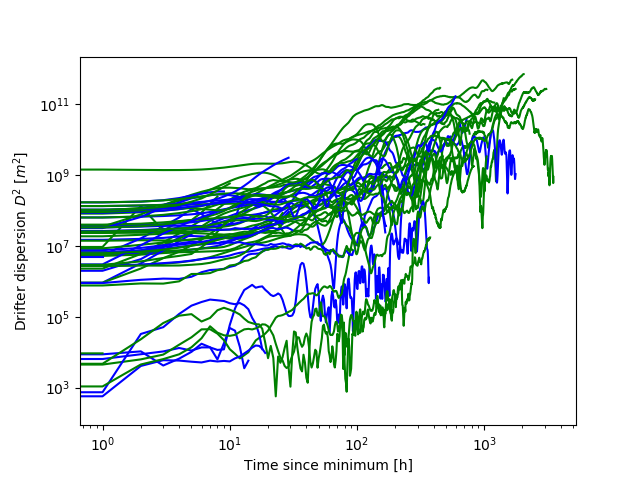
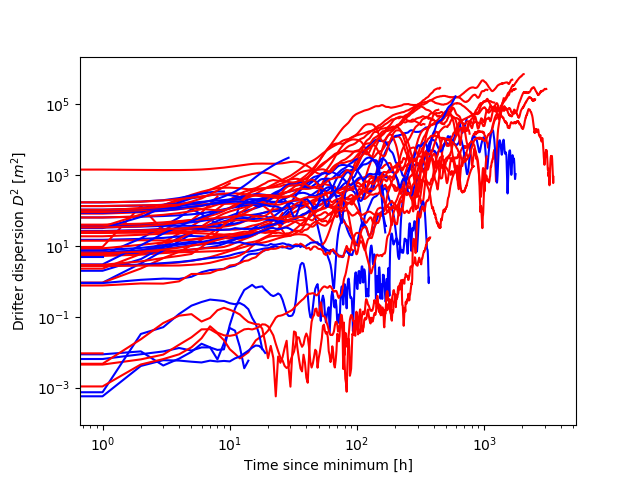
D2

diff --git a/plottraj.py b/plottraj.py
@@ -19,56 +19,56 @@ f,tf = np.genfromtxt('Data/ForwardDistances/FDPair{0}.csv'.format(nPair),delimit
 pairs = np.genfromtxt('Data/UnPair.txt', delimiter=',')
 nd = np.genfromtxt('Data/MedSeaIDslonlat.txt', delimiter=',')
 #%%
-ID1 = []
-for i in range(len(nd[0])):
-    if nd[0,i] == pairs[nPair,0]:
-        ID1 +=[nd[1,i],nd[2,i],nd[3,i]]
-ID1 = np.array(ID1)
-ID1 = np.reshape(ID1,(int(len(ID1)/3),3))
-
-ID2 = []
-for i in range(len(nd[0])):
-    if nd[0,i] == pairs[nPair,1]:
-        ID2 +=[nd[1,i],nd[2,i],nd[3,i]]
-ID2 = np.array(ID2)
-ID2 = np.reshape(ID2,(int(len(ID2)/3),3))
-
-f1 = plt.figure(1,figsize=(9,4))
-ax1 = plt.axes(projection=ccrs.PlateCarree())
-ax1.add_feature(cfeature.NaturalEarthFeature('physical','land','50m',edgecolor='face',facecolor='k'))
-ax1.set_extent([-5,36,30,45],crs=ccrs.PlateCarree())
-p1 = ax1.scatter(ID1[:,1],ID1[:,0])
-p2 = ax1.scatter(ID2[:,1],ID2[:,0])
+#ID1 = []
+#for i in range(len(nd[0])):
+#    if nd[0,i] == pairs[nPair,0]:
+#        ID1 +=[nd[1,i],nd[2,i],nd[3,i]]
+#ID1 = np.array(ID1)
+#ID1 = np.reshape(ID1,(int(len(ID1)/3),3))
 #
-f2 = plt.figure(2,figsize=(9,4))
-ax2 = plt.axes()
-ax2.plot(t,d)
-
-f3 = plt.figure(3,figsize=(9,4))
-ax3 = plt.axes()
-ax3.plot(t)
-
-f4 = plt.figure(4,figsize=(9,4))
-ax4 = plt.axes()
-ax4.plot(b)
-
-f5 = plt.figure(5,figsize=(9,4))
-ax5 = plt.axes()
-ax5.plot(f)
+#ID2 = []
+#for i in range(len(nd[0])):
+#    if nd[0,i] == pairs[nPair,1]:
+#        ID2 +=[nd[1,i],nd[2,i],nd[3,i]]
+#ID2 = np.array(ID2)
+#ID2 = np.reshape(ID2,(int(len(ID2)/3),3))
+#
+#f1 = plt.figure(1,figsize=(9,4))
+#ax1 = plt.axes(projection=ccrs.PlateCarree())
+#ax1.add_feature(cfeature.NaturalEarthFeature('physical','land','50m',edgecolor='face',facecolor='k'))
+#ax1.set_extent([-5,36,30,45],crs=ccrs.PlateCarree())
+#p1 = ax1.scatter(ID1[:,1],ID1[:,0])
+#p2 = ax1.scatter(ID2[:,1],ID2[:,0])
+##
+#f2 = plt.figure(2,figsize=(9,4))
+#ax2 = plt.axes()
+#ax2.plot(t,d)
+#
+#f3 = plt.figure(3,figsize=(9,4))
+#ax3 = plt.axes()
+#ax3.plot(t)
+#
+#f4 = plt.figure(4,figsize=(9,4))
+#ax4 = plt.axes()
+#ax4.plot(b)
+#
+#f5 = plt.figure(5,figsize=(9,4))
+#ax5 = plt.axes()
+#ax5.plot(f)
 
 #%% backward and forward timeseries
 
-#b = []
-#f = []
-#f6 = plt.figure(6)
-#ax6 = plt.axes()
-#plt.ylabel('Drifter dispersion $D^2$ [$m^2$]')
-#plt.xlabel('Time since minimum [h]')
-##f7 = plt.figure(7)
-##ax7 = plt.axes()
-#
-#for i in range(len(pairs)):
-#    b += [np.square(np.genfromtxt('Data/BackwardsDistances/BDPair{0}.csv'.format(i),delimiter = ',')[0])]
-#    f += [np.square(np.genfromtxt('Data/ForwardDistances/FDPair{0}.csv'.format(i),delimiter = ',')[0])]
-#    ax6.loglog(b[i],color='b')
-#    ax6.loglog(f[i],color='g')
+b = []
+f = []
+f6 = plt.figure(6)
+ax6 = plt.axes()
+plt.ylabel('Drifter dispersion $D^2$ [$m^2$]')
+plt.xlabel('Time since minimum [h]')
+#f7 = plt.figure(7)
+#ax7 = plt.axes()
+
+for i in range(len(pairs)):
+    b += [np.square(np.genfromtxt('Data/BackwardsDistances/BDPair{0}.csv'.format(i),delimiter = ',')[0])]
+    f += [np.square(np.genfromtxt('Data/ForwardDistances/FDPair{0}.csv'.format(i),delimiter = ',')[0])]
+    ax6.loglog(b[i],color='b')
+    ax6.loglog(f[i],color='r')
